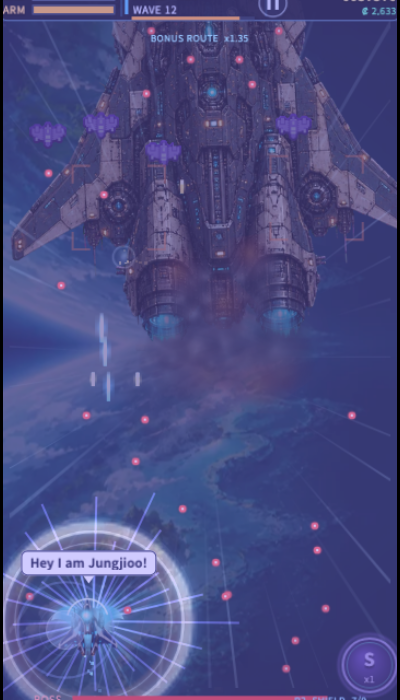
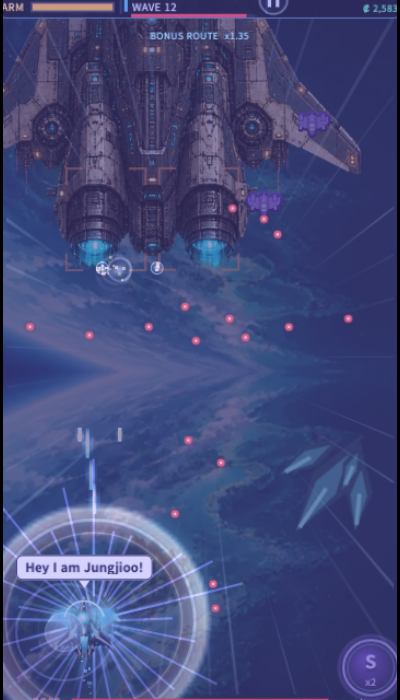
보스 전투 튜닝: 파트 내구도·탄 데미지 상향 + 슈퍼 블랙홀 레이어 + 저자극 플래시
플레이 피드백 4건.

- 파트 내구도 2.6배 (BOSS_COMBAT.partHpScale). 세부 파츠가 스치기만 해도
  녹아서 파괴 순서를 음미할 틈이 없었다.
- 보스탄 데미지 1.6배 (bulletDamageScale) — 본체·파츠가 쏘는 탄에만 적용,
  잡졸탄은 그대로. EBul.dmgScale 로 태그해 명중 시 배수 적용.
- 슈퍼 블랙홀이 보스에 가려지던 문제: DEPTH.hole(2)은 배경 레이어 경계라
  건드리지 않고, 블랙홀 실체를 DEPTH.superHole(5.5)에 그린다. 거대 선체
  (enemy=4, 부속 ≤ +0.6) 위, 팬텀(6) 아래.
- 광과민성 플래시 완화: 일러스트 보스 본체는 피격 시 순백 tintFill 점멸
  대신 원화 밝기를 넘지 않는 옅은 열기 톤만 얹는다(연사 중 사실상 무점멸).
  crop 파트는 틴트 해제(원화색 하이라이트)로 대체. 구형 소형 보스만 기존
  백색 플래시 유지.

3분 소크 에러 0, 힙 안정.

diff --git a/src/scenes/GameScene.ts b/src/scenes/GameScene.ts
@@ -12,7 +12,15 @@ import type {
   LevelData,
   SectorData,
 } from '../data/schemas';
-import { BOSS_ENRAGE, DIFficulty, PLAYER, SPAWN, STICK, SUPER } from '../game/logic/balance';
+import {
+  BOSS_COMBAT,
+  BOSS_ENRAGE,
+  DIFficulty,
+  PLAYER,
+  SPAWN,
+  STICK,
+  SUPER,
+} from '../game/logic/balance';
 import { aabb, applyDamage, sweptAabb } from '../game/logic/damage';
 import {
   createWeaponRuntimeState,
@@ -78,6 +86,8 @@ interface EBul {
   warped?: boolean;
   big: boolean;
   size: number;
+  /** 데미지 배수 — 보스탄은 잡졸탄보다 아프다. 생략 시 1. */
+  dmgScale?: number;
   img: Phaser.GameObjects.Image;
 }
 interface Enemy {
@@ -439,7 +449,11 @@ const WARSHIP_MAX_HULL_Y = 340;
 
 const DEPTH = {
   bg: 0,
+  // 배경/전환 연출의 레이어 경계로도 쓰인다(값 변경 금지) — 슈퍼 블랙홀 실체는 superHole 에 그린다.
   hole: 2,
+  // 화면을 덮는 거대 보스(enemy=4, 파츠·연기 ≤ enemy+0.6)보다 위, 팬텀(6)보다 아래.
+  // 예전엔 hole(2)에 그려서 보스 선체가 블랙홀을 통째로 가렸다.
+  superHole: 5.5,
   orb: 3,
   enemy: 4,
   bullet: 5,
@@ -1789,7 +1803,7 @@ export class GameScene extends Phaser.Scene {
       } else {
         img.setScale(pd.scale ?? 1);
       }
-      const hp = (pd.hp.base + w * pd.hp.perWave) * this.diff.hp;
+      const hp = (pd.hp.base + w * pd.hp.perWave) * this.diff.hp * BOSS_COMBAT.partHpScale;
       return {
         def: pd,
         hp,
@@ -2323,7 +2337,7 @@ export class GameScene extends Phaser.Scene {
     }
   }
 
-  private eFire(x: number, y: number, spd: number, big = false): void {
+  private eFire(x: number, y: number, spd: number, big = false, dmgScale = 1): void {
     // 탄막 상한 — 발사 빈도를 아무리 끌어올려도 회피 불능 수준으로는 못 쌓인다.
     if (this.ebullets.length >= SPAWN.maxEnemyBullets) return;
     const dx = this.px - x;
@@ -2339,13 +2353,21 @@ export class GameScene extends Phaser.Scene {
       vy: (dy / L) * spd,
       big,
       size: big ? eb.bigSize : eb.smallSize,
+      dmgScale,
       img,
     });
     SFX.eshoot();
   }
 
   /** 각도 기반 적탄 (링/나선/부채꼴 스폰용) */
-  private eFireAngle(x: number, y: number, ang: number, spd: number, size?: number): void {
+  private eFireAngle(
+    x: number,
+    y: number,
+    ang: number,
+    spd: number,
+    size?: number,
+    dmgScale = 1,
+  ): void {
     if (this.ebullets.length >= SPAWN.maxEnemyBullets) return;
     const img = this.pool.get('eb-small', x, y);
     img.setDepth(DEPTH.ebullet);
@@ -2356,6 +2378,7 @@ export class GameScene extends Phaser.Scene {
       vy: Math.sin(ang) * spd,
       big: false,
       size: size ?? DATA.enemies.ebullet.smallSize,
+      dmgScale,
       img,
     });
   }
@@ -2364,22 +2387,30 @@ export class GameScene extends Phaser.Scene {
     const B = this.boss;
     if (!B) return;
     const oy = B.def.fireOffsetY;
+    const dmg = BOSS_COMBAT.bulletDamageScale;
     if (ph.type === 'fan') {
       for (let k = 0; k < ph.count; k++) {
         const ang = Math.PI / 2 + (k - (ph.count - 1) / 2) * ph.angleStep;
-        this.eFireAngle(B.x, B.y + oy + 3, ang, ph.speed, DATA.enemies.ebullet.fanSize);
+        this.eFireAngle(B.x, B.y + oy + 3, ang, ph.speed, DATA.enemies.ebullet.fanSize, dmg);
       }
       SFX.eshoot();
     } else if (ph.type === 'aimed') {
-      this.eFire(B.x - ph.offsetX, B.y + oy, ph.speed, ph.big);
-      this.eFire(B.x + ph.offsetX, B.y + oy, ph.speed, ph.big);
+      this.eFire(B.x - ph.offsetX, B.y + oy, ph.speed, ph.big, dmg);
+      this.eFire(B.x + ph.offsetX, B.y + oy, ph.speed, ph.big, dmg);
     } else if (ph.type === 'ring') {
       for (let k = 0; k < ph.count; k++)
-        this.eFireAngle(B.x, B.y, (k / ph.count) * Math.PI * 2, ph.speed);
+        this.eFireAngle(B.x, B.y, (k / ph.count) * Math.PI * 2, ph.speed, undefined, dmg);
       SFX.eshoot();
     } else if (ph.type === 'spiral') {
       for (let a = 0; a < ph.arms; a++)
-        this.eFireAngle(B.x, B.y, B.spiralAngle + (a / ph.arms) * Math.PI * 2, ph.speed);
+        this.eFireAngle(
+          B.x,
+          B.y,
+          B.spiralAngle + (a / ph.arms) * Math.PI * 2,
+          ph.speed,
+          undefined,
+          dmg,
+        );
       B.spiralAngle += ph.rotStep;
       SFX.eshoot();
     } else {
@@ -2397,21 +2428,29 @@ export class GameScene extends Phaser.Scene {
     if (!ph) return;
     const px = part.x;
     const py = part.y;
+    const dmg = BOSS_COMBAT.bulletDamageScale;
     if (ph.type === 'aimed') {
-      this.eFire(px, py + 8, ph.speed, ph.big);
+      this.eFire(px, py + 8, ph.speed, ph.big, dmg);
     } else if (ph.type === 'fan') {
       for (let k = 0; k < ph.count; k++) {
         const ang = Math.PI / 2 + (k - (ph.count - 1) / 2) * ph.angleStep;
-        this.eFireAngle(px, py + 8, ang, ph.speed, DATA.enemies.ebullet.fanSize);
+        this.eFireAngle(px, py + 8, ang, ph.speed, DATA.enemies.ebullet.fanSize, dmg);
       }
       SFX.eshoot();
     } else if (ph.type === 'ring') {
       for (let k = 0; k < ph.count; k++)
-        this.eFireAngle(px, py, (k / ph.count) * Math.PI * 2, ph.speed);
+        this.eFireAngle(px, py, (k / ph.count) * Math.PI * 2, ph.speed, undefined, dmg);
       SFX.eshoot();
     } else if (ph.type === 'spiral') {
       for (let arm = 0; arm < ph.arms; arm++)
-        this.eFireAngle(px, py, B.spiralAngle + (arm / ph.arms) * Math.PI * 2, ph.speed);
+        this.eFireAngle(
+          px,
+          py,
+          B.spiralAngle + (arm / ph.arms) * Math.PI * 2,
+          ph.speed,
+          undefined,
+          dmg,
+        );
       B.spiralAngle += ph.rotStep;
       SFX.eshoot();
     } else {
@@ -3272,15 +3311,15 @@ export class GameScene extends Phaser.Scene {
       const hy = GAME_HEIGHT - rnd(SUPER.holeYMin, SUPER.holeYMax);
       const r = rnd(SUPER.holeMinR, SUPER.holeMaxR);
       const core = this.fxPool.get('hole-core', hx, hy);
-      core.setDepth(DEPTH.hole).setScale(0);
+      core.setDepth(DEPTH.superHole).setScale(0);
       const glow = this.fxPool.get('hole-glow', hx, hy);
       glow
-        .setDepth(DEPTH.hole - 0.2)
+        .setDepth(DEPTH.superHole - 0.2)
         .setBlendMode(Phaser.BlendModes.ADD)
         .setScale(0);
       const arcs = [0, 1, 2].map((k) => {
         const a = this.fxPool.get(`hole-arc${k}`, hx, hy);
-        a.setDepth(DEPTH.hole + 0.2)
+        a.setDepth(DEPTH.superHole + 0.2)
           .setBlendMode(Phaser.BlendModes.ADD)
           .setScale(0);
         return a;
@@ -4276,7 +4315,7 @@ export class GameScene extends Phaser.Scene {
       ) {
         this.pool.release(b.img);
         this.ebullets.splice(i, 1);
-        this.damagePlayer(b.big ? eb.bigDamage : eb.smallDamage);
+        this.damagePlayer((b.big ? eb.bigDamage : eb.smallDamage) * (b.dmgScale ?? 1));
       }
     }
   }
@@ -5218,7 +5257,9 @@ export class GameScene extends Phaser.Scene {
       if (!part.alive) continue;
       if (part.flashT > 0) {
         part.flashT -= dt;
-        part.img.setTintFill(0xffffff);
+        // crop 파트는 원화 색으로만 밝힌다(틴트 해제 = 원화 그대로) — 순백 실루엣 점멸 금지.
+        if (part.def.crop) part.img.clearTint();
+        else part.img.setTintFill(0xffffff);
         if (part.flashT <= 0) part.img.clearTint();
       }
       if (
@@ -5241,8 +5282,16 @@ export class GameScene extends Phaser.Scene {
     B.glow.setAlpha(0.45 + Math.sin(B.t * 4) * 0.2).setScale(1.15 + Math.sin(B.t * 4) * 0.08);
     if (B.flashT > 0) {
       B.flashT -= dt;
-      B.img.setTintFill(0xffffff);
-      if (B.flashT <= 0) B.img.clearTint();
+      if (this.bossPresentation(B.def)) {
+        // 화면을 덮는 일러스트 보스가 매 피격마다 순백으로 점멸하면 광과민성 발작 위험이 있다.
+        // 원화 밝기를 넘지 않는 옅은 열기 톤만 얹는다(연사 중엔 사실상 일정한 톤 유지 = 무점멸).
+        B.img.setTint(0xf0ded2);
+        if (B.flashT <= 0)
+          B.img.setTint(this.bossPresentation(B.def)?.kind === 'snail' ? 0xffffff : HULL_TINT);
+      } else {
+        B.img.setTintFill(0xffffff);
+        if (B.flashT <= 0) B.img.clearTint();
+      }
     }
     this.applySnailSpecialPose(B);
 

diff --git a/src/game/logic/balance.ts b/src/game/logic/balance.ts
@@ -84,6 +84,14 @@ export const BOSS_ENRAGE = {
   minCoolScale: 0.42,
 } as const;
 
+/** 보스 전투 배수 — 파트가 순식간에 녹거나 보스탄이 간지럼이 되지 않게. */
+export const BOSS_COMBAT = {
+  /** 파트 내구도 배수 (데이터 HP × 이 값) */
+  partHpScale: 2.6,
+  /** 보스 본체·파트가 쏘는 탄의 데미지 배수 */
+  bulletDamageScale: 1.6,
+} as const;
+
 // 슈퍼무기 "Jungjioo" — 대사 표기는 정본, 변경 금지 (PLAN 0장)
 export const SUPER = {
   holeMinR: 15, // (13) ×SR
